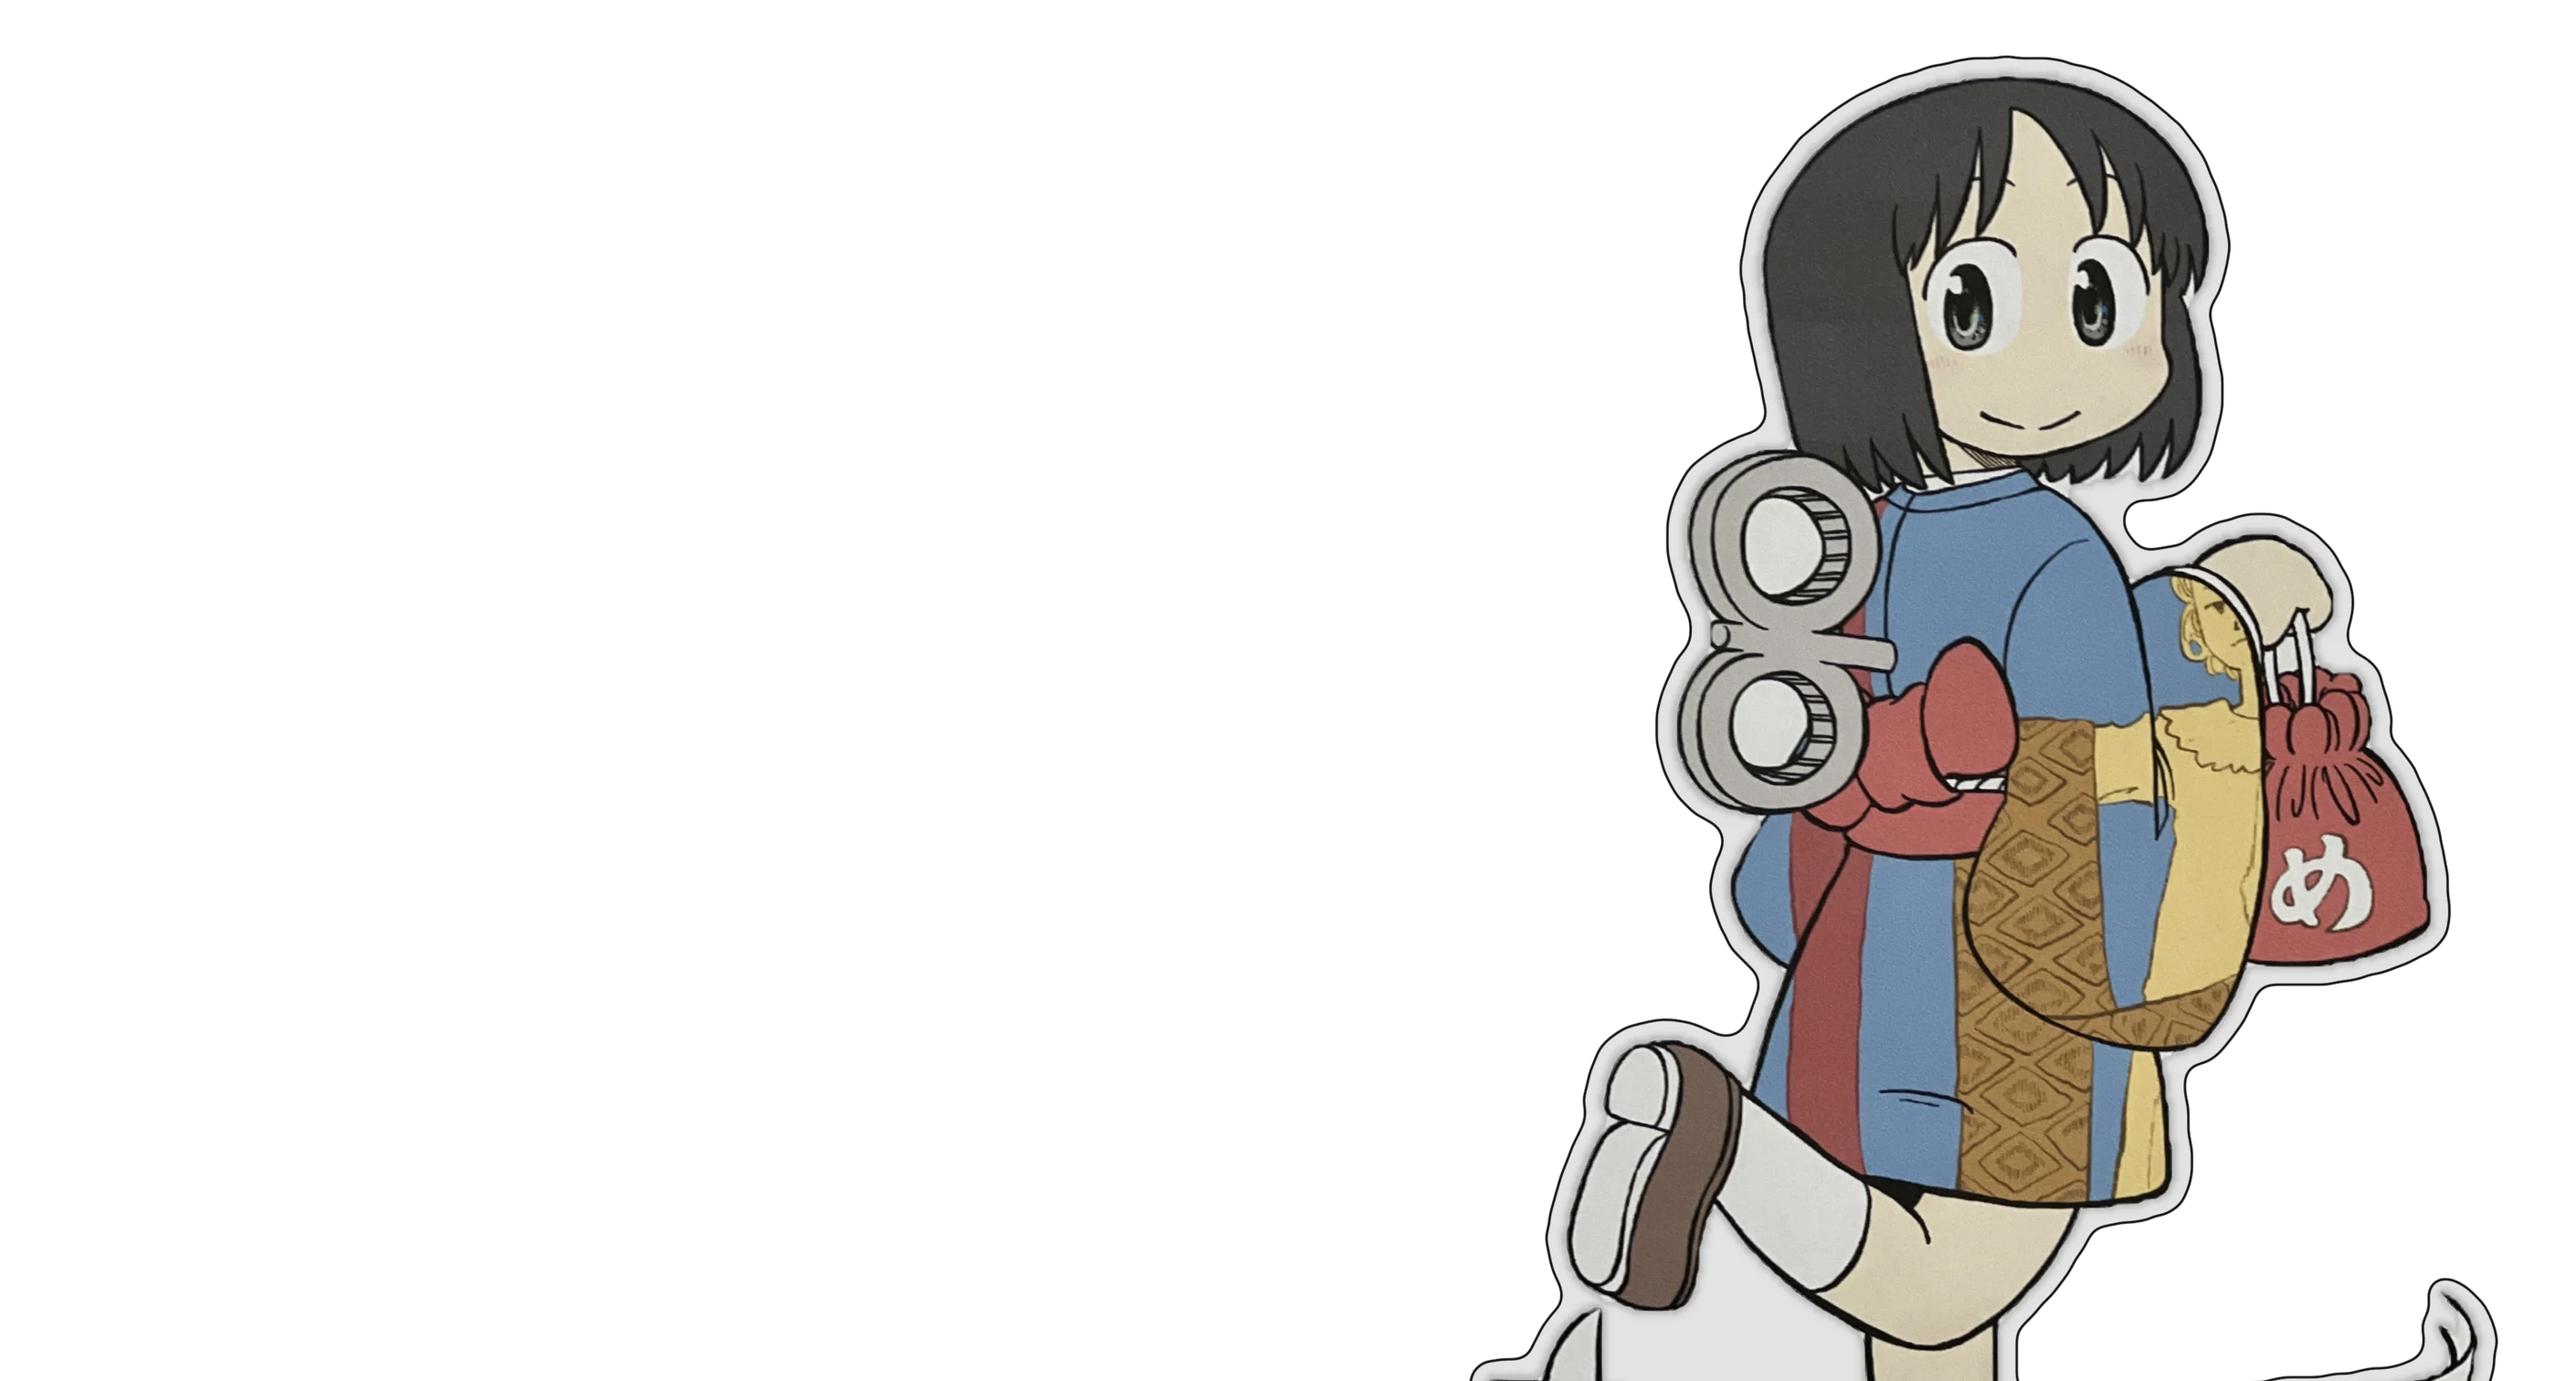
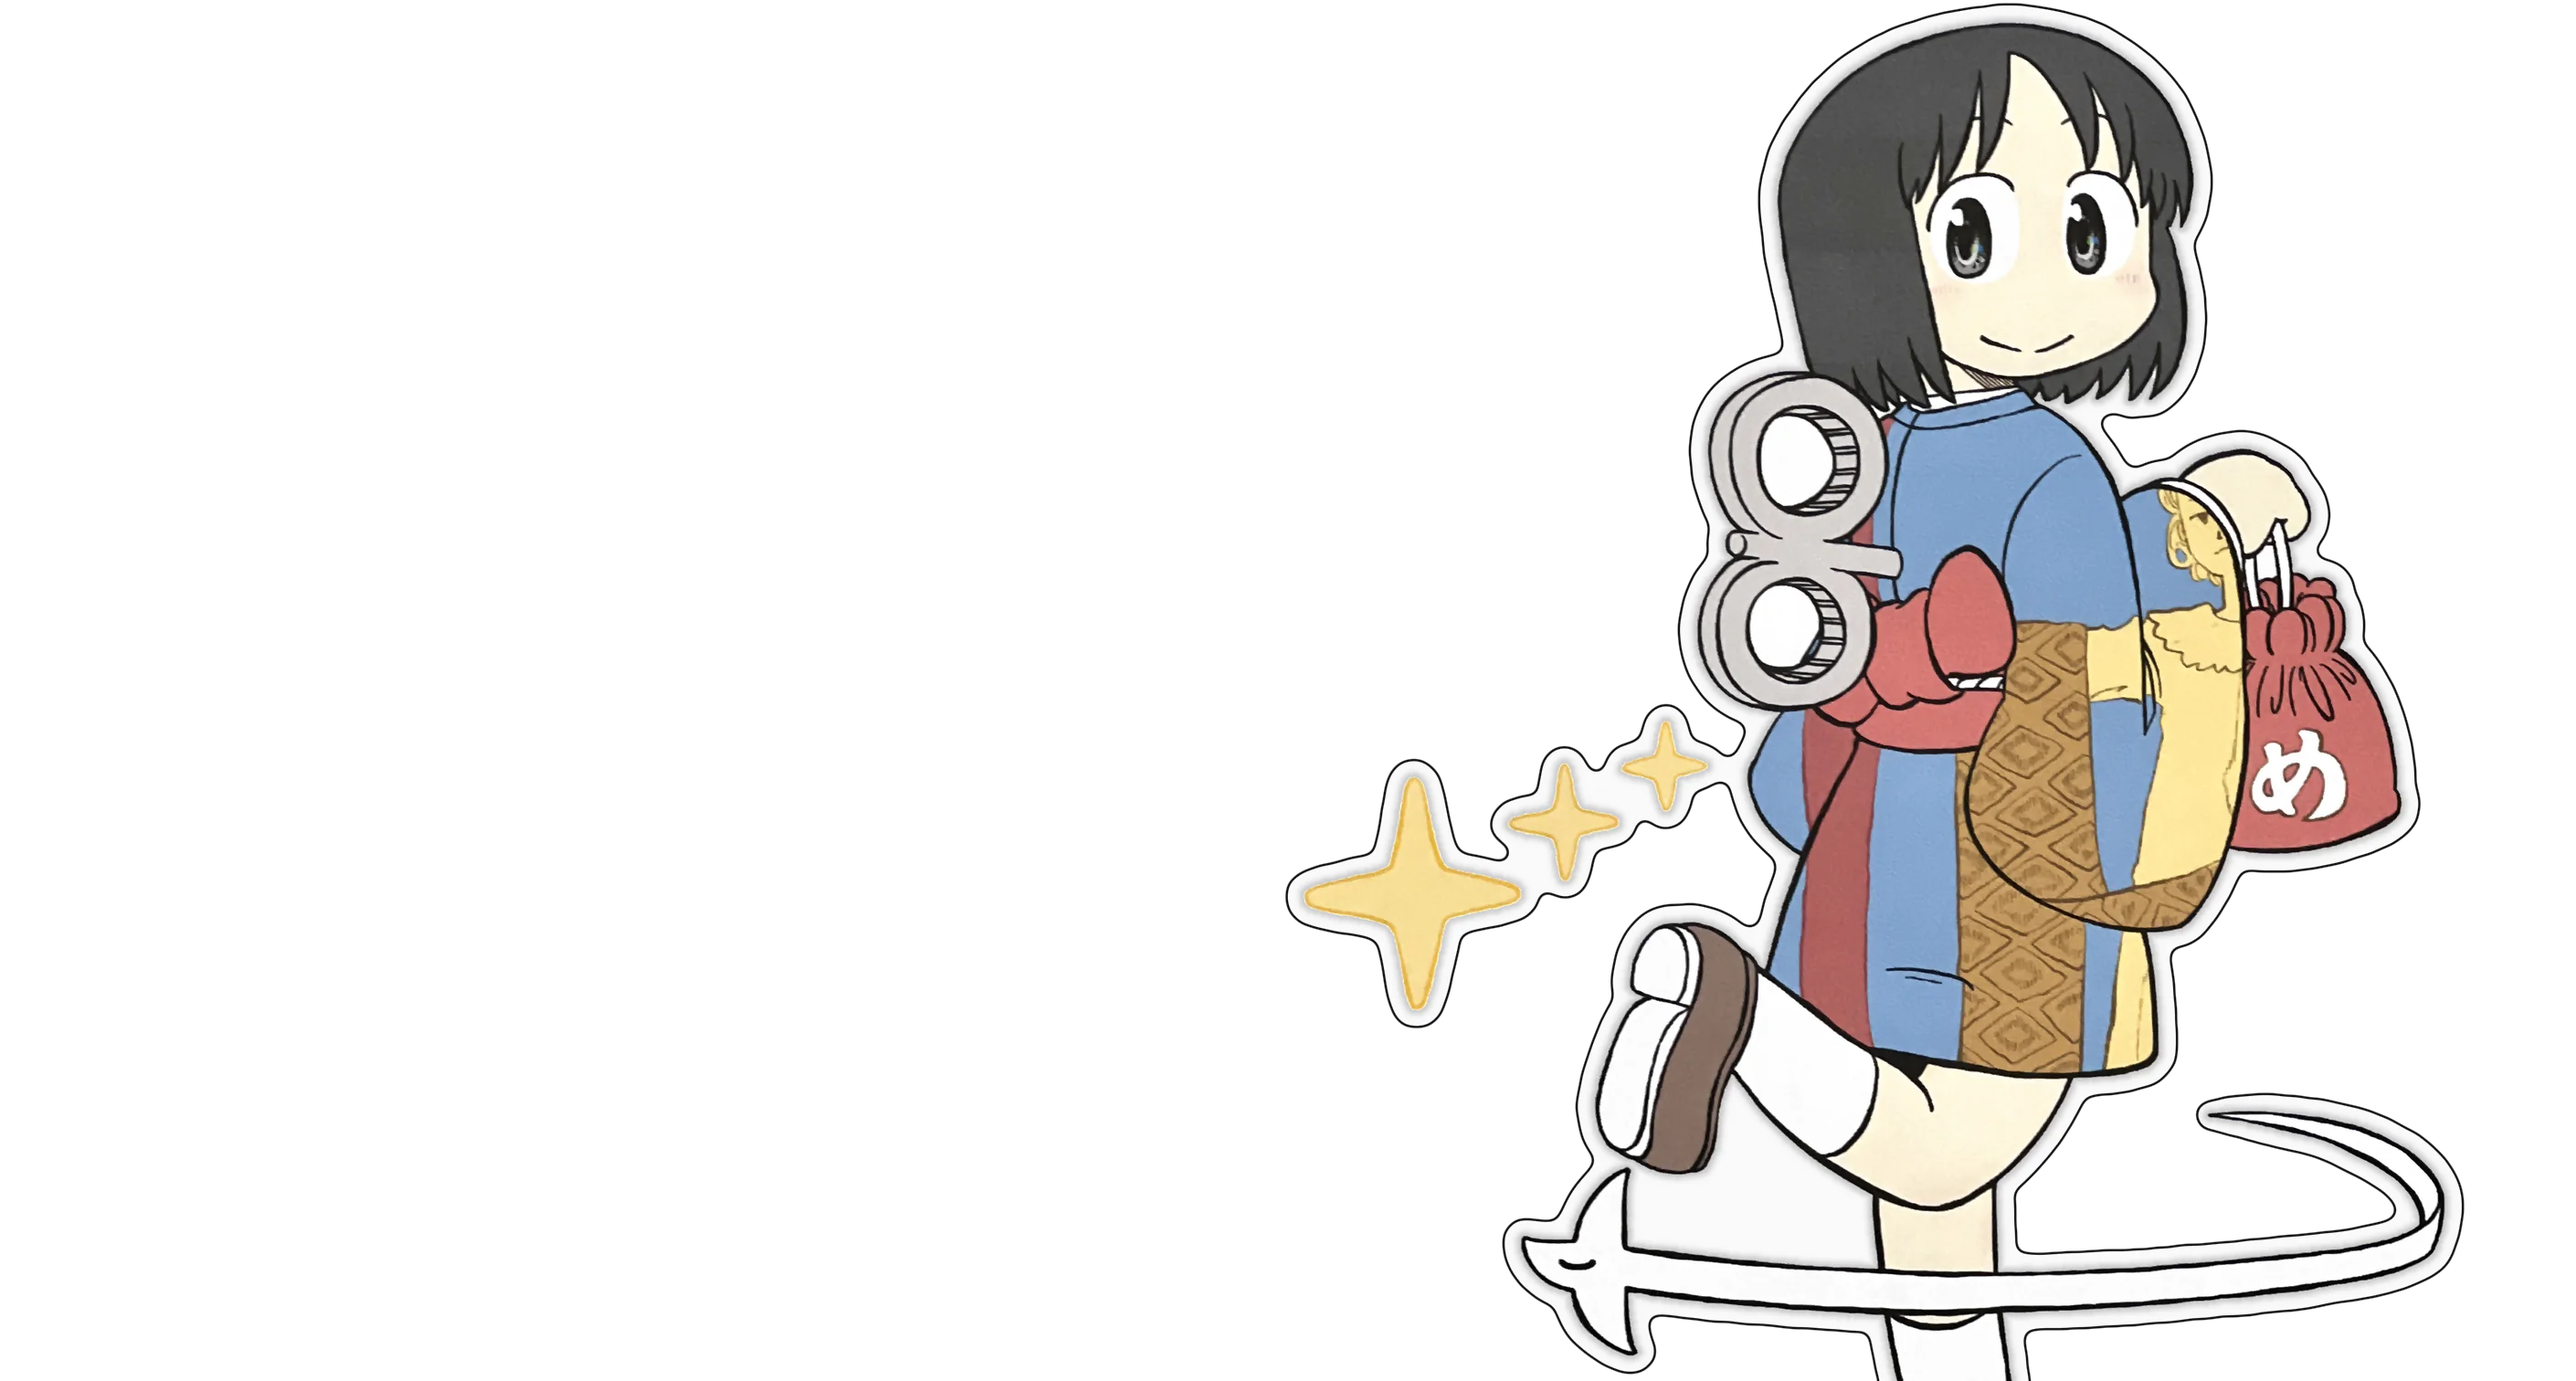
site: adjust the landing's layout
The right side of the hero was crowded. Its parts now take less room
and sit more cleanly in the layout.

Claude-Session: https://claude.ai/code/session_015CAsVzLUopSpTH4txFftg2

Changed region(s): [[0.4993, 0.0, 0.9674, 1.0]]

diff --git a/site/components/lead-stage.tsx b/site/components/lead-stage.tsx
@@ -3,7 +3,7 @@ import { LinkButton } from '@/components/ui/button'
 import { RadioGroup, RadioGroupItem } from '@/components/ui/radio-group'
 import { CREDITS_PATH } from '@/lib/art'
 import { marketplacePath } from '@/lib/gallery'
-import { BrandIcon, Icon, NewTab } from '@/lib/icons'
+import { BrandIcon, Icon } from '@/lib/icons'
 import { CAST, OTHER_ART, STICKER_CREDITS, STICKER_SIZES, stickerSet } from '@/lib/lead-cast'
 import { OWN_NAME } from '@/lib/sessions'
 import { type Line, linesOf } from '@/lib/terminal'
@@ -65,33 +65,47 @@ export function LeadCredits() {
     <div data-lead-credits>
       {STICKER_CREDITS.map((credit, at) => (
         <p data-lead-credit={credit.name} data-on={String(at === 0)}>
-          <span safe>{credit.verb}</span>{' '}
-          <a href={credit.post} target="_blank" rel="noopener">
-            <b lang={credit.japanese ? 'ja' : undefined} translate="no" safe>
-              {credit.artist}
+          <span class="sr-only" safe>{`${credit.verb} `}</span>
+          {credit.artist === null ? null : (
+            <>
+              <span lang={credit.japanese ? 'ja' : undefined} translate="no" safe>
+                {credit.artist}
+              </span>{' '}
+            </>
+          )}
+          <a href={credit.profile} target="_blank" rel="noopener">
+            <b translate="no" safe>
+              {credit.handle}
             </b>
-            <BrandIcon icon={credit.siteIcon} />
             <span class="sr-only" safe>{` on ${credit.site}`}</span>
-            <NewTab />
+            <span class="sr-only">, opens in a new tab</span>
+          </a>
+          <a href={credit.post} target="_blank" rel="noopener">
+            <BrandIcon icon={credit.siteIcon} />
+            <span class="sr-only" safe>{`Original post on ${credit.site}`}</span>
+            <span class="sr-only">, opens in a new tab</span>
           </a>
           {credit.license === null ? null : (
             <a data-lead-license href={credit.license.url} target="_blank" rel="noopener">
               <BrandIcon icon={credit.license.icon} />
               <span class="sr-only" safe>{`${credit.license.brand} `}</span>
               <span safe>{credit.license.terms}</span>
-              <NewTab />
+              <span class="sr-only">, opens in a new tab</span>
             </a>
           )}
           {credit.after === null ? null : (
             <span data-lead-after>
-              <span safe>{`After the ${credit.after.work} cover by `}</span>
+              <span>After </span>
+              <span class="sr-only" safe>{`the ${credit.after.work} cover by `}</span>
+              <span lang="ja" translate="no" safe>
+                {credit.after.artist}
+              </span>{' '}
               <a href={credit.after.url} target="_blank" rel="noopener">
-                <b lang="ja" translate="no" safe>
-                  {credit.after.artist}
+                <b translate="no" safe>
+                  {credit.after.handle}
                 </b>
-                <BrandIcon icon={credit.after.icon} />
                 <span class="sr-only" safe>{` on ${credit.after.site}`}</span>
-                <NewTab />
+                <span class="sr-only">, opens in a new tab</span>
               </a>
             </span>
           )}

diff --git a/site/lib/lead-cast.ts b/site/lib/lead-cast.ts
@@ -11,20 +11,22 @@ export const CAST: readonly CastMember[] = [
   { name: 'souryuu-asuka-langley', face: 930 / 756, scale: 1 },
   { name: 'ayanami-rei', face: 946 / 756, scale: 1 },
   { name: 'izumi-konata', face: 860 / 756, scale: 0.5 / 0.55 },
-  { name: 'shinonome-nano', face: 1086 / 756, scale: 1 },
+  { name: 'shinonome-nano', face: 1051 / 756, scale: 1 },
 ]
 
 export interface StickerCredit {
   name: string
   who: string
   verb: string
-  artist: string
+  artist: string | null
+  handle: string
+  profile: string
   japanese: boolean
   site: string
   siteIcon: SimpleIcon
   post: string
   license: { brand: string; icon: SimpleIcon; terms: string; url: string } | null
-  after: { work: string; artist: string; icon: SimpleIcon; site: string; url: string } | null
+  after: { work: string; artist: string; handle: string; site: string; url: string } | null
 }
 
 export const STICKER_CREDITS: readonly StickerCredit[] = [
@@ -33,6 +35,8 @@ export const STICKER_CREDITS: readonly StickerCredit[] = [
     who: 'Souryuu Asuka Langley',
     verb: 'Art by',
     artist: 'kmym',
+    handle: '@kmym97457689',
+    profile: 'https://x.com/kmym97457689',
     japanese: false,
     site: 'X',
     siteIcon: siX,
@@ -45,6 +49,8 @@ export const STICKER_CREDITS: readonly StickerCredit[] = [
     who: 'Ayanami Rei',
     verb: 'Art by',
     artist: 'ADA☆',
+    handle: '@HikawaHomura',
+    profile: 'https://x.com/HikawaHomura',
     japanese: false,
     site: 'X',
     siteIcon: siX,
@@ -56,7 +62,9 @@ export const STICKER_CREDITS: readonly StickerCredit[] = [
     name: 'izumi-konata',
     who: 'Izumi Konata',
     verb: 'Vector by',
-    artist: 'lllP3lll',
+    artist: null,
+    handle: 'lllP3lll',
+    profile: 'https://www.deviantart.com/lllp3lll',
     japanese: false,
     site: 'DeviantArt',
     siteIcon: siDeviantart,
@@ -67,13 +75,21 @@ export const STICKER_CREDITS: readonly StickerCredit[] = [
       terms: 'BY-NC-SA 3.0',
       url: 'https://creativecommons.org/licenses/by-nc-sa/3.0/',
     },
-    after: { work: "Comp H's Vol.3", artist: '堀口悠紀子', icon: siX, site: 'X', url: 'https://x.com/dochibibi' },
+    after: {
+      work: "Comp H's Vol.3",
+      artist: '堀口悠紀子',
+      handle: '@dochibibi',
+      site: 'X',
+      url: 'https://x.com/dochibibi',
+    },
   },
   {
     name: 'shinonome-nano',
     who: 'Shinonome Nano',
     verb: 'Art by',
     artist: 'あらゐけいいち',
+    handle: '@himaraya',
+    profile: 'https://x.com/himaraya',
     japanese: true,
     site: 'X',
     siteIcon: siX,

diff --git a/site/components/credits.tsx b/site/components/credits.tsx
@@ -121,12 +121,22 @@ export function Credits({ facts }: { facts: Facts }) {
               {STICKER_CREDITS.map((credit) => (
                 <li class="text-sm text-muted-foreground">
                   <span safe>{`${credit.who}: `}</span>
-                  <StickerLink href={credit.post}>
-                    <span lang={credit.japanese ? 'ja' : undefined} translate="no" safe>
-                      {credit.artist}
+                  {credit.artist === null ? null : (
+                    <>
+                      <span lang={credit.japanese ? 'ja' : undefined} translate="no" safe>
+                        {credit.artist}
+                      </span>{' '}
+                    </>
+                  )}
+                  <StickerLink href={credit.profile}>
+                    <span class="font-medium text-foreground" translate="no" safe>
+                      {credit.handle}
                     </span>
-                    <BrandIcon icon={credit.siteIcon} class="size-3 flex-none" />
                     <span class="sr-only" safe>{` on ${credit.site}`}</span>
+                  </StickerLink>{' '}
+                  <StickerLink href={credit.post}>
+                    <BrandIcon icon={credit.siteIcon} class="size-3 flex-none" />
+                    <span class="sr-only" safe>{`Original post on ${credit.site}`}</span>
                   </StickerLink>
                   {credit.license === null ? null : (
                     <>
@@ -141,11 +151,13 @@ export function Credits({ facts }: { facts: Facts }) {
                   {credit.after === null ? null : (
                     <>
                       <span safe>{`, after the ${credit.after.work} cover by `}</span>
+                      <span lang="ja" translate="no" safe>
+                        {credit.after.artist}
+                      </span>{' '}
                       <StickerLink href={credit.after.url}>
-                        <span lang="ja" translate="no" safe>
-                          {credit.after.artist}
+                        <span class="font-medium text-foreground" translate="no" safe>
+                          {credit.after.handle}
                         </span>
-                        <BrandIcon icon={credit.after.icon} class="size-3 flex-none" />
                         <span class="sr-only" safe>{` on ${credit.after.site}`}</span>
                       </StickerLink>
                     </>

diff --git a/site/app/globals.css b/site/app/globals.css
@@ -1182,40 +1182,22 @@ lead-showcase > [data-site-header] {
   visibility: hidden;
 }
 
-[data-lead-credit]:hover {
-  border-color: var(--input);
-}
-
 [data-lead-credit] a {
+  position: relative;
   border-radius: var(--radius-sm);
   outline: none;
+}
+
+[data-lead-credit] a::after {
+  content: '';
+  position: absolute;
+  inset-block: calc(var(--spacing) * -2);
+  inset-inline: 0;
 }
 
 [data-lead-credit] a:focus-visible {
   outline: 2px solid currentColor;
   outline-offset: 2px;
-}
-
-[data-lead-credit] > a:first-of-type:focus-visible {
-  outline: none;
-}
-
-[data-lead-credit] > a:first-of-type::after {
-  content: '';
-  position: absolute;
-  inset: 0;
-  border-radius: var(--credit-corners);
-}
-
-[data-lead-credit] > a:first-of-type:focus-visible::after {
-  outline: 2px solid var(--fg);
-  outline-offset: -3px;
-}
-
-[data-lead-license],
-[data-lead-after] a {
-  position: relative;
-  z-index: 1;
 }
 
 [data-lead-credit] b {
@@ -1233,23 +1215,13 @@ lead-showcase > [data-site-header] {
   display: inline-block;
   width: 1em;
   height: 1em;
-  margin-inline-start: 0.15em;
-  stroke-width: 2.2;
-  vertical-align: -0.13em;
-  transition: translate 160ms cubic-bezier(0.2, 0.8, 0.2, 1);
-}
-
-[data-lead-credit] svg[fill='currentColor'] {
   margin-inline-start: 0.4em;
   color: var(--fg);
+  vertical-align: -0.13em;
 }
 
-[data-lead-license] svg[fill='currentColor'] {
+[data-lead-license] svg {
   margin-inline: 0 0.45em;
-}
-
-[data-lead-credit] a:hover svg[fill='none'] {
-  translate: 1px -1px;
 }
 
 [data-lead-license] {
@@ -1669,10 +1641,6 @@ lead-showcase > [data-site-header] {
     white-space: normal;
     writing-mode: horizontal-tb;
     translate: 0 6px;
-  }
-
-  [data-lead-credit] > a:first-of-type::after {
-    inset: calc(var(--spacing) * -2) 0;
   }
 
   [data-lead-license],
